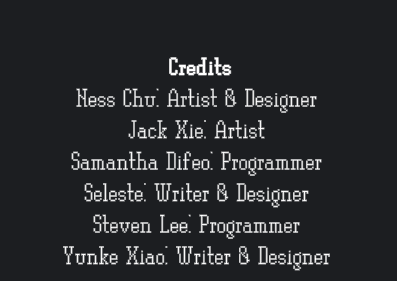
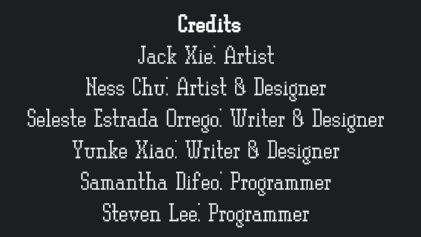
fixed credits order

Changed region(s): [[0.0605, 0.1772, 0.9068, 0.9747], [0.4232, 0.0591, 0.5743, 0.1477]]

diff --git a/index.html b/index.html
@@ -1,0 +1,58 @@
+<!<!DOCTYPE html>
+<html lang = "en-US">
+  <head>
+    <link rel ="stylesheet" href = "style.css">
+    <link href="https://fonts.googleapis.com/css2?family=VT323&display=swap" rel="styleSHEET">
+    <meta charset = "UTF-utf-8">
+    <title> Antimony Studio </title>
+    <link rel = "icon" type = "image/png" href = "logo_icon.png">
+    </head>
+    <body>
+      <div class = "container">
+
+        <div class = navbar>
+          <nav>
+              <div class = "navwrapper">
+                  <a href = "#" class = "studioName"> Antimony <span> </a>
+              </div>
+          </nav>
+        </div>
+
+        <div class = "main">
+            <video loop autoplay muted playsinline width = 1024 height = 768>
+              <source src = "start.mp4" type = "video/mp4">
+                please use another internet browser if you cannot see a video playing.
+            </video>
+                <br><br><br><br><br><br><br><br>
+
+                <div class = "text1">
+                <p> Coming soon to Steam </p>
+                <br><br><br><br><br><br><br>
+
+                </div>
+
+
+
+                <div class = "unity">
+                  <img src="unitcutsomlogo.png" alt="Names of the best dev team!" style = "width = 50%">
+                  <p> Made with Unity </p>
+                    <br><br><br><br><br><br>
+                </div>
+
+                <div class = "credits">
+                  <img src="creds.png" alt="Names of the best dev team!" style = "width = 50%"">
+                  <br><br><br><br><br><br><br><br>
+                </div>
+
+
+                <div class = "contact">
+                    <a href = "mailto:antimonystudio@gmail.com"> Contact Us  </a>
+                    <br><br><br><br>
+                </div>
+
+
+        </div>
+
+
+      </body>
+</html>
